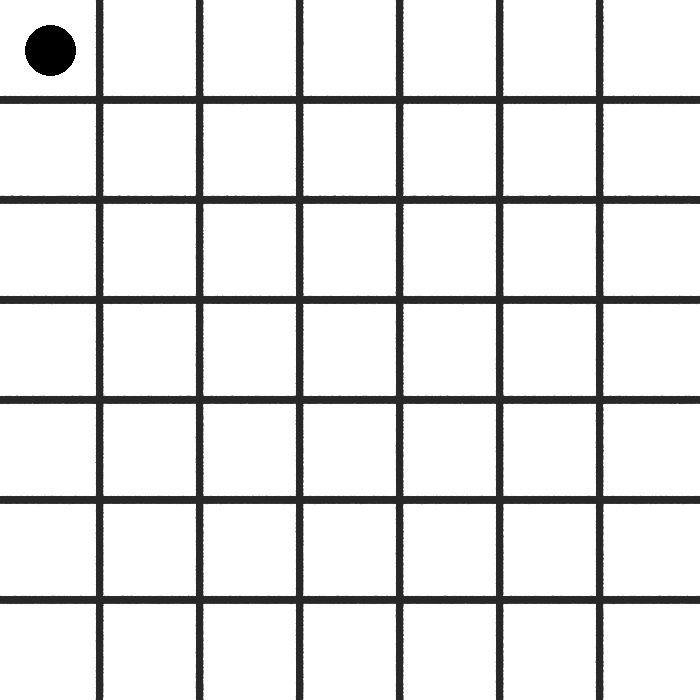
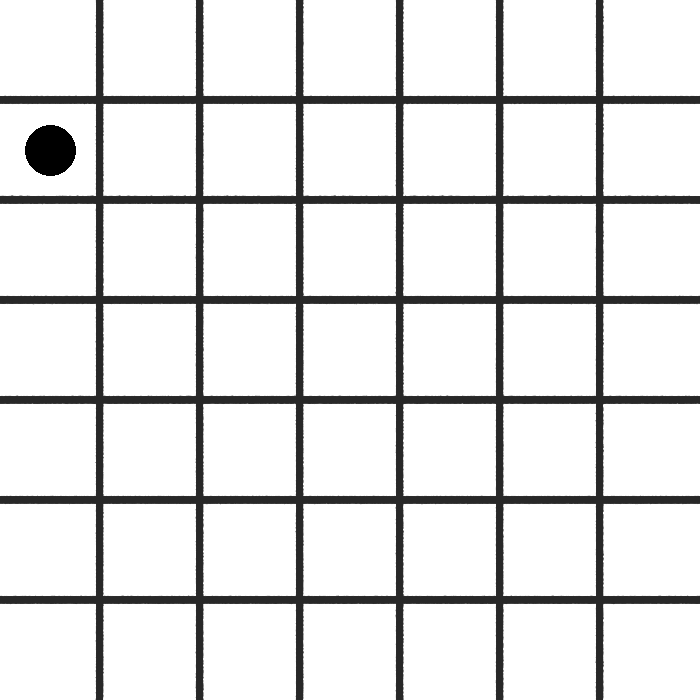
update table

Changed region(s): [[0.03, 0.03, 0.12, 0.12], [0.03, 0.18, 0.12, 0.27]]

diff --git a/main.py b/main.py
@@ -1,7 +1,7 @@
 from roberto_control import move_circle
 from os import system
 
-move_circle('up')
+move_circle('down')
 system('git add .')
 system('git commit -m "update table"')
 system('git push')
